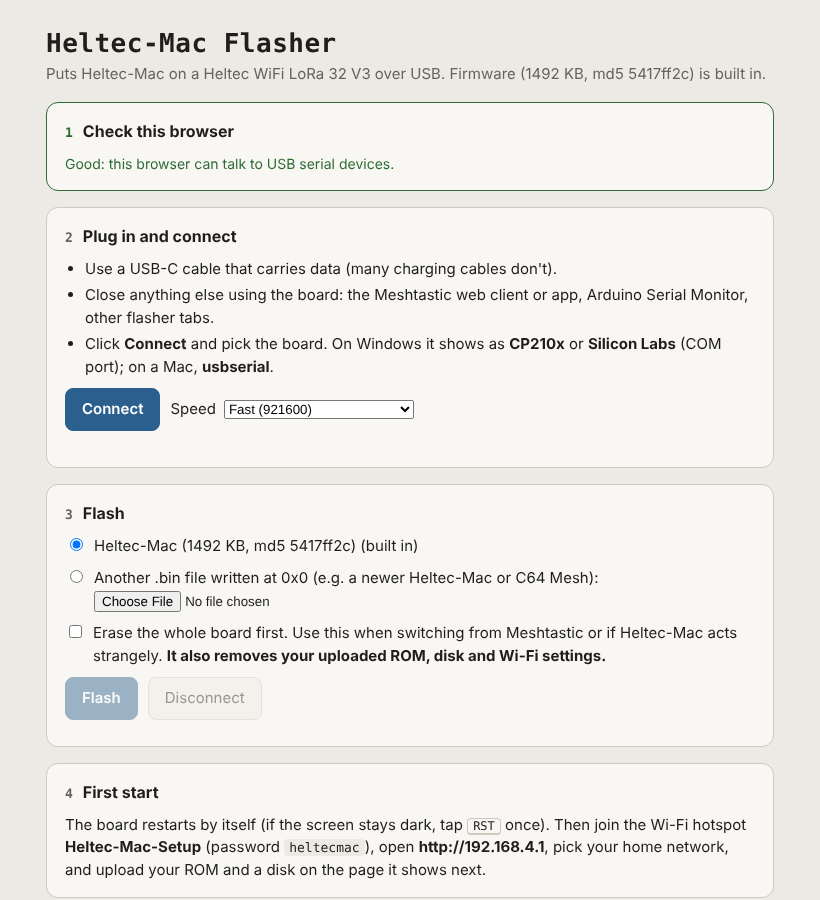
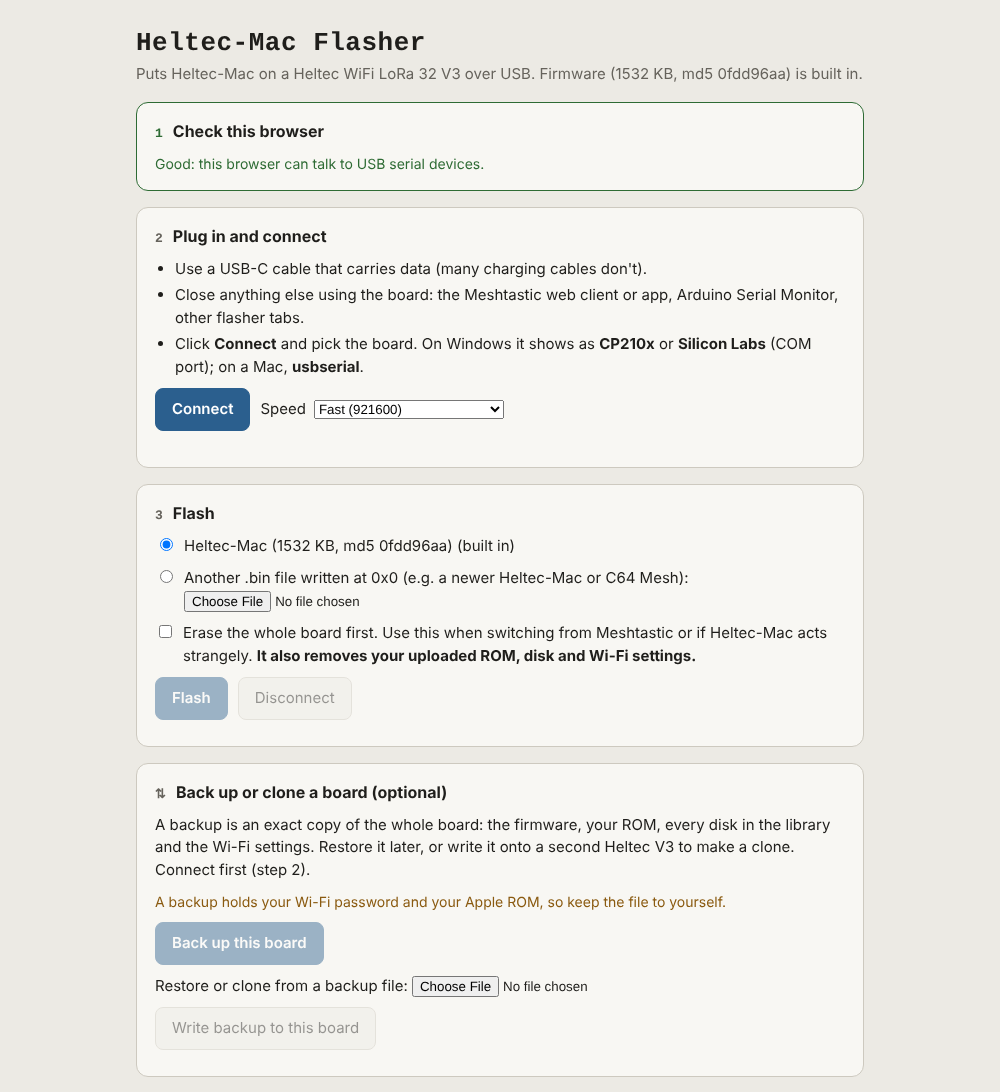
README: new screenshots and text for everything added lately
New screenshots of the page (Amazing running, new buttons, battery), the
Status panel, the disk library with No disk and a program pulled off an 800K
disk, Bricks and the Finder, and the flasher's backup/clone section. Text
covers board controls, hotspot use, backup/clone and new troubleshooting.

Claude-Session: https://claude.ai/code/session_013eymtW1ZZTTm3nAbBpAd85

Changed region(s): [[0.061, 0.0311, 0.9451, 1.0]]

diff --git a/README.md b/README.md
@@ -8,9 +8,10 @@ hardware, keeps a library of floppy disks in its own flash, and serves the Mac's
 sound to any browser on your network. There's no app to install: open the board's address on a
 PC, a Raspberry Pi or a phone, and you're at the Finder.
 
-![MacPaint running in the browser on a Heltec V3](docs/heltec-mac.png)
+![The Amazing maze game running in the browser on a Heltec V3](docs/heltec-mac.png)
 
-*MacPaint 1.1 running on the board, viewed in Chrome. Every Mac pixel is drawn as a crisp 2×2 block.*
+*The 1985 maze game Amazing, running on the board and viewed in Chrome. Every Mac pixel is drawn
+as a crisp 2×2 block. Battery level and the board's controls sit right on the page.*
 
 ## Highlights
 
@@ -30,22 +31,33 @@ PC, a Raspberry Pi or a phone, and you're at the Finder.
   get its space back.
 - **Drop in almost any old Mac file.** Disk images (`.img`, `.dsk`, DiskCopy 4.2 `.image`) and
   archives (`.zip`, `.7z`, `.sit` including StuffIt 5, `.hqx`, `.bin`, `.gz`), even nested
-  inside each other. Your browser unpacks them, so the board stays fast. Loose programs, like a
-  copy of Missile Command, can be copied straight onto a disk.
+  inside each other. Your browser unpacks them, so the board stays fast. Loose programs, like
+  Missile Command or Bricks, are copied straight onto the disk you're using, and programs on
+  800K disks that this Mac can't read are pulled off and copied over too. Add the same program
+  again and it replaces the old copy.
 - **Your choice of ROM.** Works with the original Mac 128K/512K ROM (recommended) or the
   Mac Plus ROM. ROMs aren't included; bring your own.
+- **Board controls on the page.** Battery level, how long the board has been up and why it last
+  started, plus **Restart Mac**, **Restart board** and **Sleep board** buttons. Sleep turns
+  everything off until you press PRG.
+- **Works anywhere.** On your home Wi‑Fi, or straight from the board's own hotspot when there's
+  no network around.
 - **One-page flasher.** Flash it from Chrome or Edge with a single HTML file. No tools to install.
-  It can also back up a whole board to a file and restore or clone it.
+  It also backs up a whole board to one file, and restores or clones it onto another board.
 - **Extras.** VNC on port 5900, a status display on the board's OLED (or a tiny live view of the
   Mac screen), and a safe mode that keeps the page reachable if something goes wrong.
 
 | The clock follows your computer | Games, with sound |
 |---|---|
 | ![Control Panel showing the current date and time](docs/clock.png) | ![Missile Command](docs/missile-command.png) |
+| **Programs copied onto a System disk** | **Bricks, added from a StuffIt 5 archive** |
+| ![The Finder showing Bricks and Amazing on the System Disk](docs/finder.png) | ![Bricks running](docs/bricks.png) |
 
 ![The disk library on the board's web page](docs/disk-library.png)
 
-*The disk library: six original 1984 disks stored on the board, one click to start from any of them.*
+*The disk library: five disks stored on the board, one click to start from any of them, or
+from no disk at all. Here Amazing.zip (an 800K disk) was just opened, and its program is
+ready to copy onto the disk in use.*
 
 ## What you need
 
@@ -66,16 +78,17 @@ it from the list, and click **Flash**. The page checks the write and restarts th
 anything goes wrong, the page walks you through the usual fixes (USB driver, cable, download
 mode), and **Watch the board start** shows the board's own startup log.
 
-![The Heltec-Mac Flasher](docs/flasher.png)
+![The Heltec-Mac Flasher, with the backup and clone section](docs/flasher.png)
 
 Prefer the command line? `esptool --chip esp32s3 write-flash 0x0 firmware/Heltec-Mac.bin`
 
 Updating later keeps your ROM, disks and Wi‑Fi settings.
 
 **Back up or clone.** After **Connect**, **Back up this board** saves the whole 8 MB flash
-(firmware, ROM, every disk and the Wi‑Fi settings) as one verified `.bin` file.
-**Write backup to this board** puts it back, or onto a second Heltec V3 to make a clone. The
-file holds your Wi‑Fi password and your ROM, so keep it private.
+(firmware, ROM, every disk and the Wi‑Fi settings) as one `.bin` file, checked against the
+board. When it's done, the flasher offers to disconnect and restart the board for you.
+**Write backup to this board** puts a backup back, or onto a second Heltec V3 to make a clone.
+The file holds your Wi‑Fi password and your ROM, so keep it private.
 
 ### 2. Put it on your Wi‑Fi
 
@@ -84,8 +97,11 @@ Join it, open **http://192.168.4.1**, pick your network under **Wi‑Fi**, and c
 **Save & restart**. The OLED then shows the board's address on your network. It also answers
 to **heltec-mac.local** on most computers.
 
-No Wi‑Fi around? You can also use the Mac straight from the hotspot at http://192.168.4.1.
-Your phone or laptop may say the hotspot has no internet; that's expected, so stay connected.
+No Wi‑Fi around? You can also use the Mac straight from the hotspot: join
+**Heltec-Mac-Setup** and type **http://192.168.4.1** into your browser (the `.local` name
+only works on your home network). Your phone or laptop may say the hotspot has no internet;
+that's expected, so stay connected. In hotspot mode the board turns its Wi‑Fi power down, since
+you're sitting right next to it.
 If the board can't find your saved network when it starts (say you took it somewhere else), it
 starts the hotspot instead. Press RST once you're back in range to join your network again.
 
@@ -119,7 +135,9 @@ Open `http://<board address>` (or `http://heltec-mac.local`) and click the Mac s
   and your choice is remembered.
 - **Pixels:** **Auto** keeps the screen razor sharp when there's room, **Fill** uses all the
   space. **Full screen** gives you just the Mac.
-- **Restart Mac** works like the Mac's reset switch.
+- **Restart Mac** works like the Mac's reset switch. **Restart board** restarts the whole
+  Heltec, like pressing RST. **Sleep board** puts it to sleep (see below). Each one saves the
+  disk first.
 
 One browser at a time can view the Mac. Opening it somewhere else takes over.
 
@@ -148,7 +166,14 @@ System, so it starts straight into the app. Disks for System 4 and later (800K H
 with 512 KB or more, which doesn't fit on this board. Many small 800K game disks are just one
 program, though, and those usually run fine once copied onto a 400K System disk.
 
-### Battery
+### Status, battery and sleep
+
+<img src="docs/status.png" alt="The Status panel" width="372" align="right">
+
+The **Status** panel shows whether the Mac is running and at what speed, who's watching, the
+battery, and how long the board has been up along with why it last started (power on, RST
+button, restart, woke from sleep, crash, watchdog or brownout). If the board ever acts up,
+that line is the first clue.
 
 With a LiPo plugged into the board's battery connector, the OLED's title bar shows its voltage
 and charge (for example `3.9V 72%`), and the web page shows it in the header and Status panel.
@@ -156,12 +181,10 @@ and charge (for example `3.9V 72%`), and the web page shows it in the header and
 connected. The reading is a rough guide: it comes from the board's voltage divider, like
 Meshtastic's.
 
-### Sleep
-
-**Restart board** restarts the whole Heltec, like pressing RST (the disk is saved first).
-**Sleep board** (next to it) saves the disk, switches off the screen, Wi-Fi and LED,
+**Sleep board** saves the disk, switches off the screen, Wi-Fi and LED,
 and puts the Heltec into deep sleep. Press **PRG** (or RST) on the board to wake it. The page
 waits and reconnects by itself, and the Mac starts once you're watching, so you hear the chime.
+<br clear="right">
 
 ### Clock
 
@@ -222,6 +245,10 @@ The ESP32-S3 has two processor cores and 512 KB of RAM:
   again. Choose **Slow** speed in the flasher.
 - **Stuck on "JOINING WIFI..." or restarting:** flash the latest version. To see why, use
   **Watch the board start** in the flasher.
+- **The Mac freezes or the page drops off:** look at **Up** in the Status panel. "brownout"
+  means the board's power dipped: try another USB port or cable, or charge the battery.
+  "crash" or "watchdog" is a bug; the log from **Watch the board start** helps find it.
+- **Remove** asks **Sure?** first: click it again within 4 seconds.
 - **"There is not enough room in memory":** use the Mac 128K ROM instead of the Plus ROM.
 - **No sound:** click the Mac screen once (browsers need a click before playing sound) and check
   that the **Sound** button says **on**.
